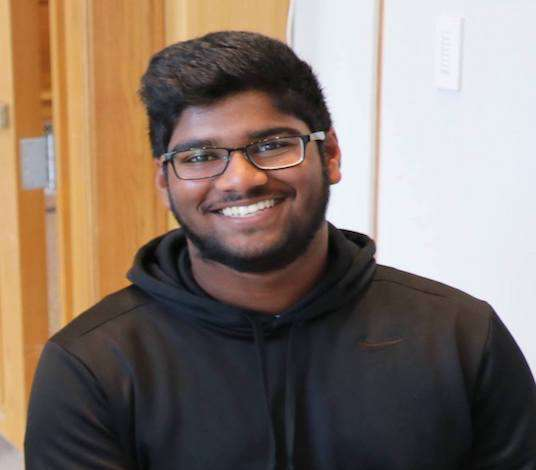
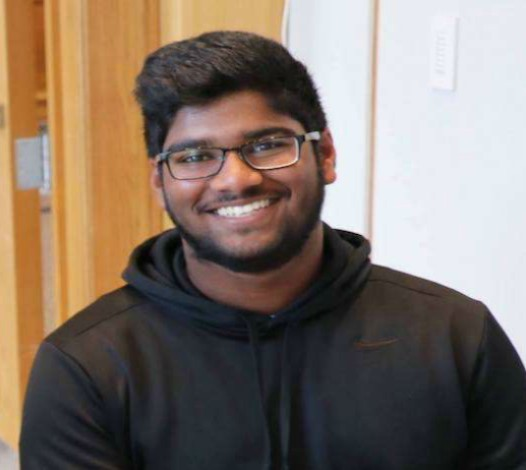
picture ratios fixeddddd

diff --git a/index.html b/index.html
@@ -286,9 +286,9 @@
 
 								<div class="mu-speakers-slider">
 
-									<!-- Start single speaker -->
+									<!-- Start single speaker ***-->
 									<div class="mu-single-speakers">
-										<img src="assets/images/Ronit-Tiwary-Organizer-Picture.jpg" alt="speaker img" height="250" align="center" >
+										<img src="assets/images/Ronit-Tiwary-Organizer-Picture.jpg" alt="speaker img"  align="center" >
 										<div class="mu-single-speakers-info">
 											<h3>Ronit Tiwary</h3>
 											<p>Co-Founder and Director</p>
@@ -301,9 +301,9 @@
 									</div>
 									<!-- End single speaker -->
 
-									<!-- Start single speaker -->
+									<!-- Start single speaker **210-->
 									<div class="mu-single-speakers">
-										<img src="assets/images/Min-Jae-You-Organizer-Picture.jpg" alt="speaker img" height="210" align="center">
+										<img src="assets/images/Min-Jae-You-Organizer-Picture.jpg" alt="speaker img"  align="center">
 										<div class="mu-single-speakers-info">
 											<h3>Min Jae You</h3>
 											<p>Co-Founder and Director</p>
@@ -336,9 +336,9 @@
 									<!-- End single speaker -->
 
 
-									<!-- Start single speaker -->
+									<!-- Start single speaker **-->
 									<div class="mu-single-speakers">
-										<img src="assets/images/Eleanor-Wang-Organizer-Picture.jpg" alt="speaker img" height="250" align="center">
+										<img src="assets/images/Eleanor-Wang-Organizer-Picture.jpg" alt="speaker img"  align="center">
 										<div class="mu-single-speakers-info">
 											<h3>Eleanor Wang</h3>
 											<p>Head of Finance</p>
@@ -351,9 +351,9 @@
 									</div>
 									<!-- End single speaker -->
 
-									<!-- Start single speaker -->
+									<!-- Start single speaker**-->
 									<div class="mu-single-speakers">
-										<img src="assets/images/Advay-Muchoor-Organizer-Picture.jpg" alt="speaker img" height="250" align="center">
+										<img src="assets/images/Advay-Muchoor-Organizer-Picture.jpg" alt="speaker img"  align="center">
 										<div class="mu-single-speakers-info">
 											<h3>Advay Muchoor</h3>
 											<p>Organizer</p>
@@ -382,9 +382,9 @@
 									<!-- End single speaker -->
 
 
-									<!-- Start single speaker -->
+									<!-- Start single speaker **-->
 									<div class="mu-single-speakers">
-										<img src="assets/images/Ashley-David-Organizer-Picture.jpg" alt="speaker img" height="250" align="center">
+										<img src="assets/images/Ashley-David-Organizer-Picture.jpg" alt="speaker img"  align="center">
 										<div class="mu-single-speakers-info">
 											<h3>Ashley David</h3>
 											<p>Organizer</p>
